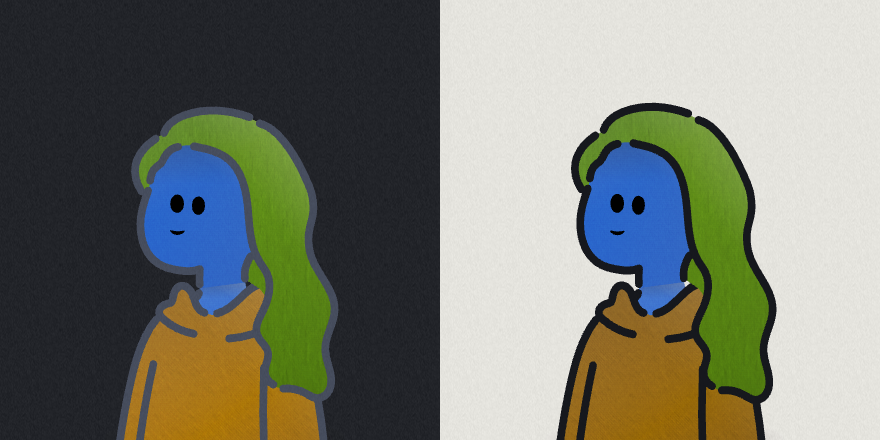
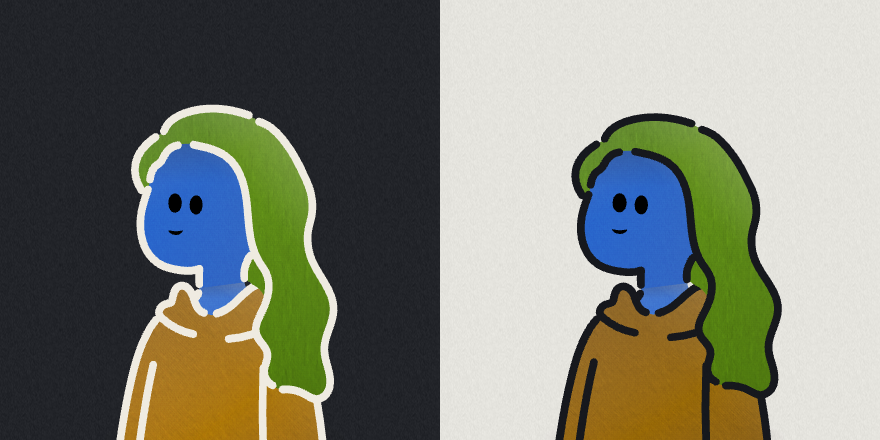
dark mode: invert the ink line
The outline was lifted to a mid grey, which just looked washed out. Line art on
a dark ground is drawn in LIGHT ink. Eyes and mouth stay dark — they are filled
features on a mid-tone face and in light ink they read as blank holes.

diff --git a/src/avatar-motion.js b/src/avatar-motion.js
@@ -179,8 +179,12 @@ export class AvatarMotion extends HTMLElement {
         }
         .aura { position: absolute; inset: 0; pointer-events: none; }
         svg { position: relative; display: block; width: 100%; height: 100%; }
-        .am-eye { fill: var(--am-eye, ${built.colors.stroke}); }
-        .am-mouth { fill: var(--am-mouth, ${built.colors.stroke}); }
+        /* The OUTLINE inverts in dark mode, but the eyes and mouth must not:
+           they are filled features sitting on a mid-tone face, and in light ink
+           they read as blank holes rather than as eyes. They stay dark in both
+           themes, which is also what makes the face legible at chip size. */
+        .am-eye { fill: var(--am-eye, ${dark ? '#191c22' : built.colors.stroke}); }
+        .am-mouth { fill: var(--am-mouth, ${dark ? '#191c22' : built.colors.stroke}); }
 
         /* Top RIGHT, not top centre. Humation hair is tall and centred, so a
            centred emblem lands in it on half the heads; the upper right corner

diff --git a/src/humation.js b/src/humation.js
@@ -265,10 +265,10 @@ export function darkColors(c, kind = 'agent') {
     hair: human ? floorLight(c.hair, 40) : lift(c.hair, 42, 18),
     bottom: lift(c.bottom, 40, 24),
     clothes: lift(c.clothes, 46, 34),
-    // The ink line has to stay VISIBLE against a dark page. Left at near-black
-    // it reads fine inside the figure but the outer silhouette merges into the
-    // background and the character loses its edge entirely.
-    stroke: floorLight(c.stroke, 32),
+    // The ink line INVERTS in dark mode. Lifting near-black to a mid grey was
+    // a half-measure that just looked washed out — line art on a dark ground
+    // is drawn in light ink, the same way it is drawn in dark ink on paper.
+    stroke: '#EFEBE1',
   }
 }
 
